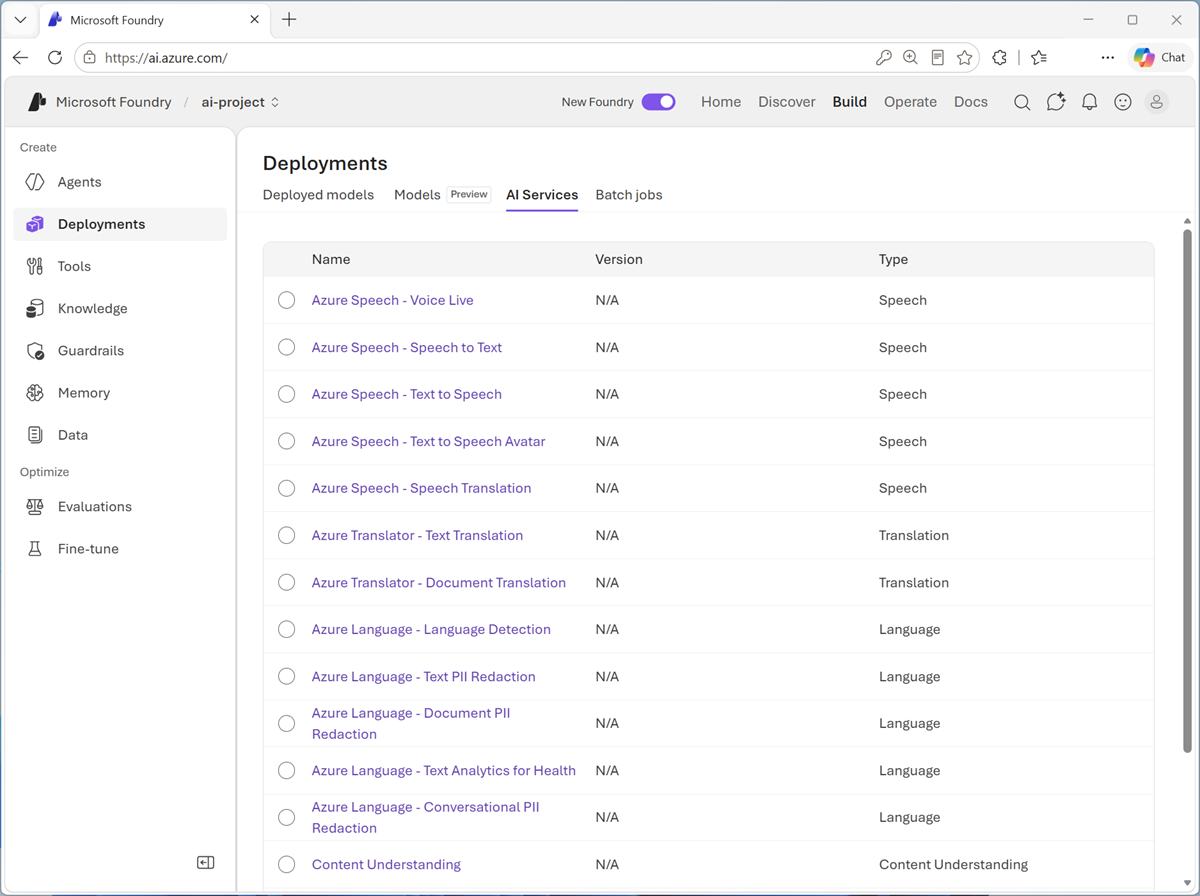
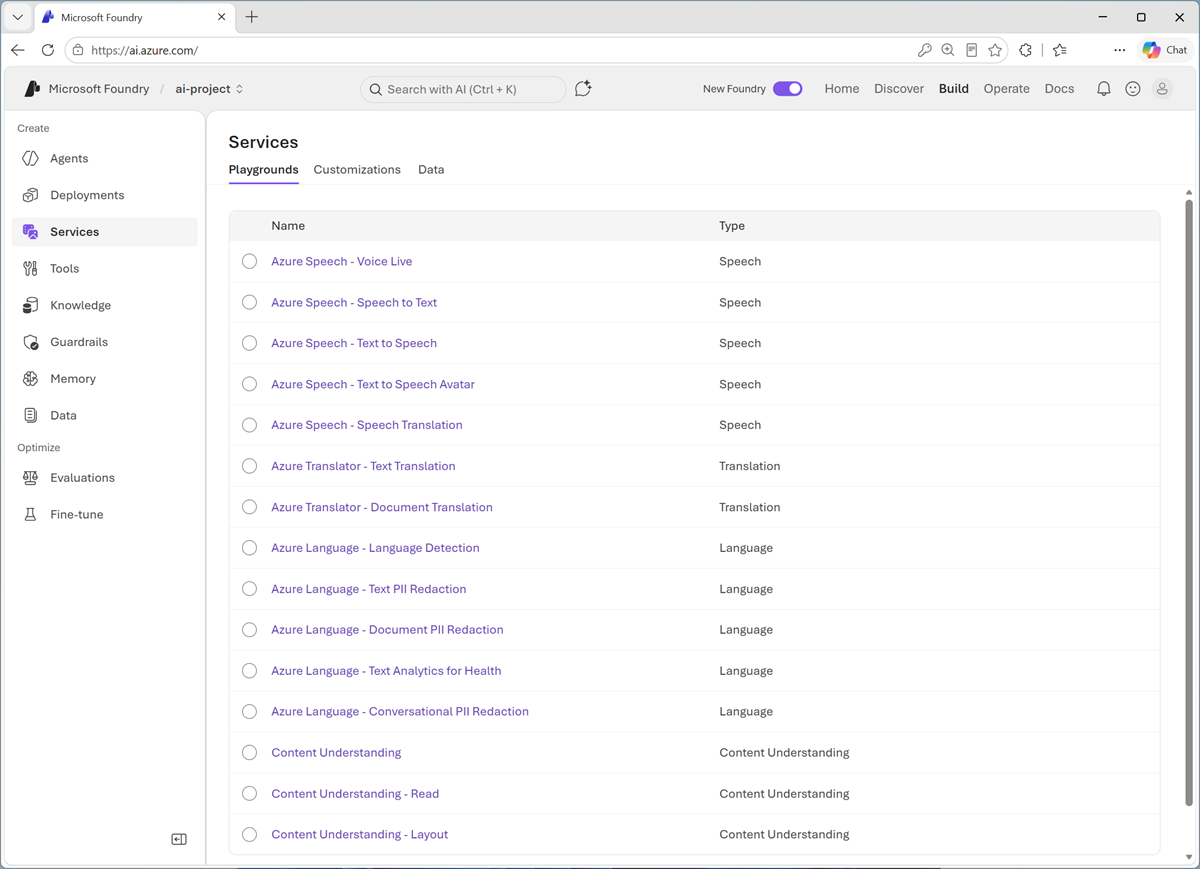
New AI services UI

diff --git a/Instructions/Exercises/06a-content-understanding.md b/Instructions/Exercises/06a-content-understanding.md
@@ -53,7 +53,9 @@ Azure Content Understanding is a Foundry service that uses AI models to turn uns
 1. In the Foundry portal, navigate to the tool bar at the top of the screen and select **Build**.
 1. On the *Build* page, in the menu on the left-side of the screen (which you may need to expand), select the **Services** page.
 
-    > ![Image of Anton.](./media/anton-icon.png)<br/>**Tip**: In some cases, you may see a slightly different interface in which the list of AI services can be found by selecting the **Deployments** page, and viewing its **AI Services** tab.
+    Microsoft Foundry Tools includes multiple AI Services (formerly known as Microsoft Cognitive Services) that support common speech, translation, language, and content understanding workloads.
+
+    ![Screenshot of Foundry AI services page.](./media/ai_services.png)
 
 1. Select **Content Understanding** to open the *Content Understanding* tool playground.
 

diff --git a/Instructions/Exercises/03b-text-analysis.md b/Instructions/Exercises/03b-text-analysis.md
@@ -109,8 +109,6 @@ The **Azure Language in Foundry Tools** provides purpose-built analyzers that us
 
 1. On the *Build* page, navigate to the menu on the left-side of the screen (you may need to expand it). In the menu, select the **Services** page.
 
-    > ![Image of Anton.](./media/anton-icon.png)<br/>**Tip**: In some cases, you may see a slightly different interface in which the list of AI services can be found by selecting the **Deployments** page, and viewing its **AI Services** tab.
-
     Microsoft Foundry Tools includes multiple AI Services (formerly known as Microsoft Cognitive Services) that support common speech, translation, language, and content understanding workloads.
 
     ![Screenshot of Foundry AI services page.](./media/ai_services.png)
